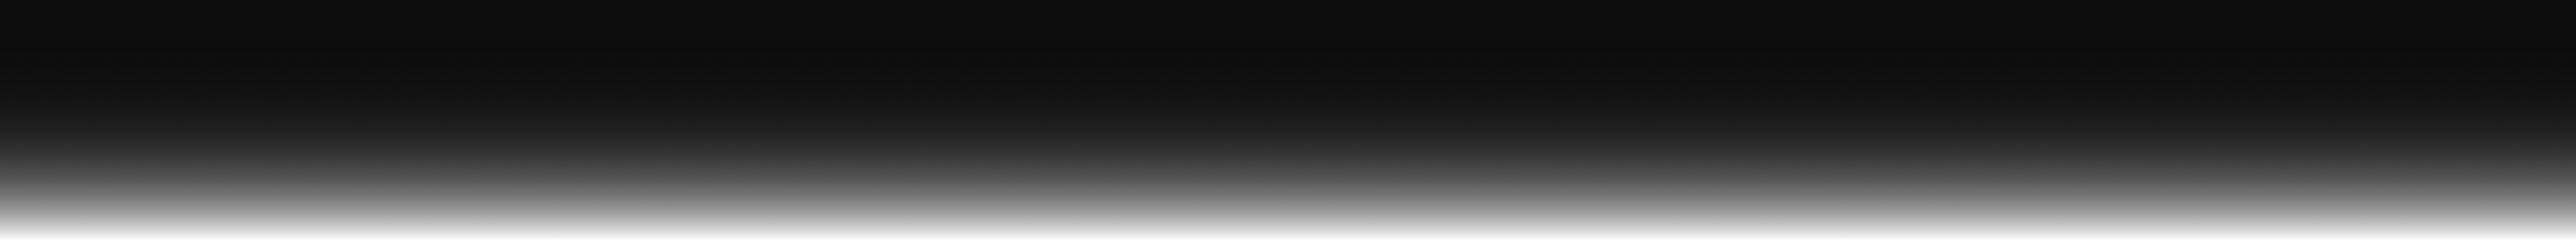
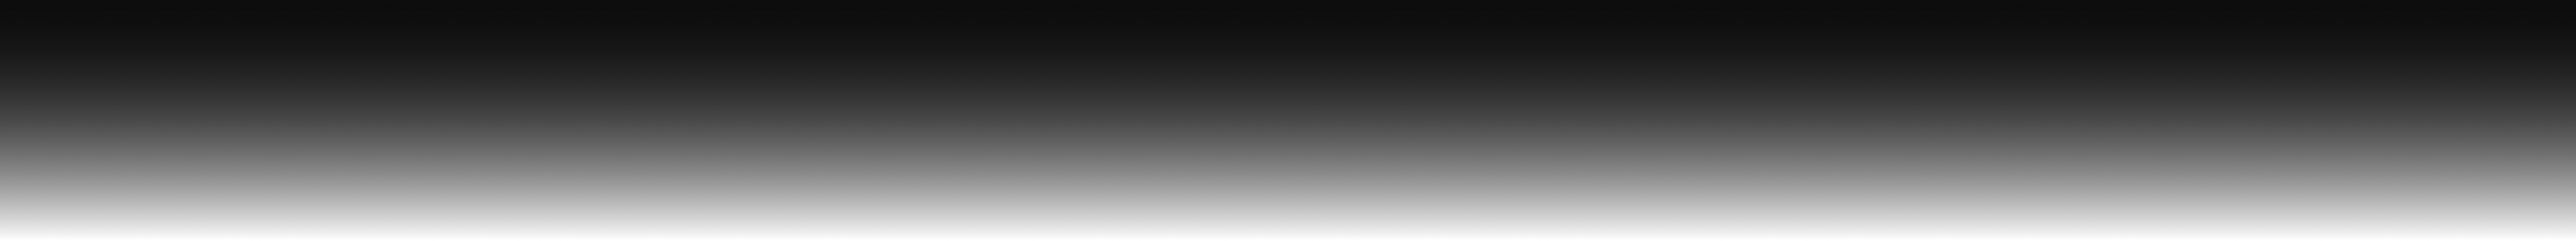
Restore lighter top fade and fade marked rows on scroll

diff --git a/components/HomeContent.tsx b/components/HomeContent.tsx
@@ -1,0 +1,61 @@
+"use client";
+
+import { useEffect, useRef, type ReactNode } from "react";
+import { getScrollFadeOpacity } from "@/lib/scroll-fade";
+
+export default function HomeContent({ children }: { children: ReactNode }) {
+  const content = useRef<HTMLElement>(null);
+
+  useEffect(() => {
+    const element = content.current;
+    if (!element) return;
+    let targets: { element: HTMLElement; initialTop: number }[] = [];
+    let frame = 0;
+    let needsMeasure = true;
+    let mounted = true;
+
+    function update() {
+      frame = 0;
+      if (!element) return;
+      const scrollY = window.scrollY;
+      if (needsMeasure) {
+        targets = Array.from(element.querySelectorAll<HTMLElement>("[data-scroll-fade]")).map((target) => ({
+          element: target,
+          initialTop: target.getBoundingClientRect().top + scrollY,
+        }));
+        needsMeasure = false;
+      }
+      for (const target of targets) {
+        const opacity = getScrollFadeOpacity(target.initialTop - scrollY, target.initialTop);
+        target.element.style.setProperty("--scroll-opacity", String(opacity));
+      }
+    }
+
+    function scheduleUpdate() {
+      if (!frame) frame = window.requestAnimationFrame(update);
+    }
+
+    function scheduleMeasure() {
+      if (!mounted) return;
+      needsMeasure = true;
+      scheduleUpdate();
+    }
+
+    update();
+    const observer = new ResizeObserver(scheduleMeasure);
+    observer.observe(element);
+    document.fonts.ready.then(scheduleMeasure);
+    window.addEventListener("scroll", scheduleUpdate, { passive: true });
+    window.addEventListener("resize", scheduleMeasure);
+    return () => {
+      mounted = false;
+      observer.disconnect();
+      window.cancelAnimationFrame(frame);
+      window.removeEventListener("scroll", scheduleUpdate);
+      window.removeEventListener("resize", scheduleMeasure);
+      for (const target of targets) target.element.style.removeProperty("--scroll-opacity");
+    };
+  }, []);
+
+  return <main className="home-content" aria-label="Codebanas" ref={content}>{children}</main>;
+}

diff --git a/components/HeroText.tsx b/components/HeroText.tsx
@@ -30,8 +30,8 @@ export default function HeroText() {
   return (
     <section className="hero-section" aria-labelledby="hero-title">
       <h1 className="hero-title" id="hero-title">
-        <span className="hero-title-line">Supporters With Benefits</span>
-        <span className="hero-title-line">
+        <span className="hero-title-line" data-scroll-fade>Supporters With Benefits</span>
+        <span className="hero-title-line" data-scroll-fade>
           Made Simple &amp; Real.
           <span className="hero-ending" aria-hidden="true">
             <span className="hero-ending-measure">{endings[1]}</span>
@@ -39,7 +39,7 @@ export default function HeroText() {
           </span>
         </span>
       </h1>
-      <p className="hero-description">
+      <p className="hero-description" data-scroll-fade>
         Support what we&apos;re building and discover opportunities to receive something back from the
         community you help grow.
       </p>

diff --git a/app/page.tsx b/app/page.tsx
@@ -1,5 +1,6 @@
 import CodeCards from "@/components/CodeCards";
 import HeroText from "@/components/HeroText";
+import HomeContent from "@/components/HomeContent";
 import QuickLinksCue from "@/components/QuickLinksCue";
 import QuickLinks from "@/components/QuickLinks";
 
@@ -37,7 +38,7 @@ export default function Home() {
           </div>
         </nav>
       </header>
-      <main className="home-content" aria-label="Codebanas">
+      <HomeContent>
         <HeroText />
         <div className="supporter-content">
           <CodeCards />
@@ -48,7 +49,7 @@ export default function Home() {
             </div>
           </div>
         </div>
-      </main>
+      </HomeContent>
     </>
   );
 }

diff --git a/lib/scroll-fade.ts b/lib/scroll-fade.ts
@@ -1,0 +1,9 @@
+const fadeMarker = 32;
+const minimumOpacity = 0.25;
+
+export function getScrollFadeOpacity(currentTop: number, initialTop: number): number {
+  if (currentTop <= fadeMarker) return minimumOpacity;
+  if (currentTop >= initialTop) return 1;
+  const progress = (initialTop - currentTop) / (initialTop - fadeMarker);
+  return Math.max(minimumOpacity, Math.min(1, 1 - progress * (1 - minimumOpacity)));
+}

diff --git a/components/CodeCards.tsx b/components/CodeCards.tsx
@@ -134,7 +134,7 @@ export default function CodeCards({
 
   return (
     <section className="code-gallery" aria-labelledby="gallery-title">
-      <div className="gallery-toolbar">
+      <div className="gallery-toolbar" data-scroll-fade>
         <h2 className="gallery-title" id="gallery-title">
           [ / Supporter Benefits ]
         </h2>

diff --git a/app/globals.css b/app/globals.css
@@ -284,6 +284,10 @@ a:focus-visible {
   padding-bottom: 48px;
 }
 
+[data-scroll-fade] {
+  opacity: var(--scroll-opacity, 1);
+}
+
 .hero-section {
   width: min(var(--container-width), calc(100% - 2 * var(--page-gutter)));
   margin-inline: auto;

diff --git a/docs/progressive-fades.md b/docs/progressive-fades.md
@@ -9,6 +9,14 @@ fixed across the full viewport width at the existing 160px height, behind the
 navigation. Its z-index is 10; the navigation is 20 and the sticky quick-links
 menu is 11, keeping those controls above the fade.
 
+The top PNG is the earlier, lighter export. Each hero heading line, the hero
+description, and the gallery toolbar also fade independently on page scroll.
+Each starts at full opacity at its unscrolled document position and reaches
+25% opacity when its top edge reaches 32px from the viewport top. Opacity
+stays at 25% beyond that marker and returns to 100% when scrolled back.
+The positions are measured again after resizing, layout changes, or font
+loading. Card contents and the fixed navigation do not use this scroll fade.
+
 The slider uses the user's original Figma exports, stored unchanged at
 `public/gallery/blur-left.png` and `public/gallery/blur-right.png`. Both files
 are 1060 by 1720 pixels with alpha transparency. They render at 265px wide by
